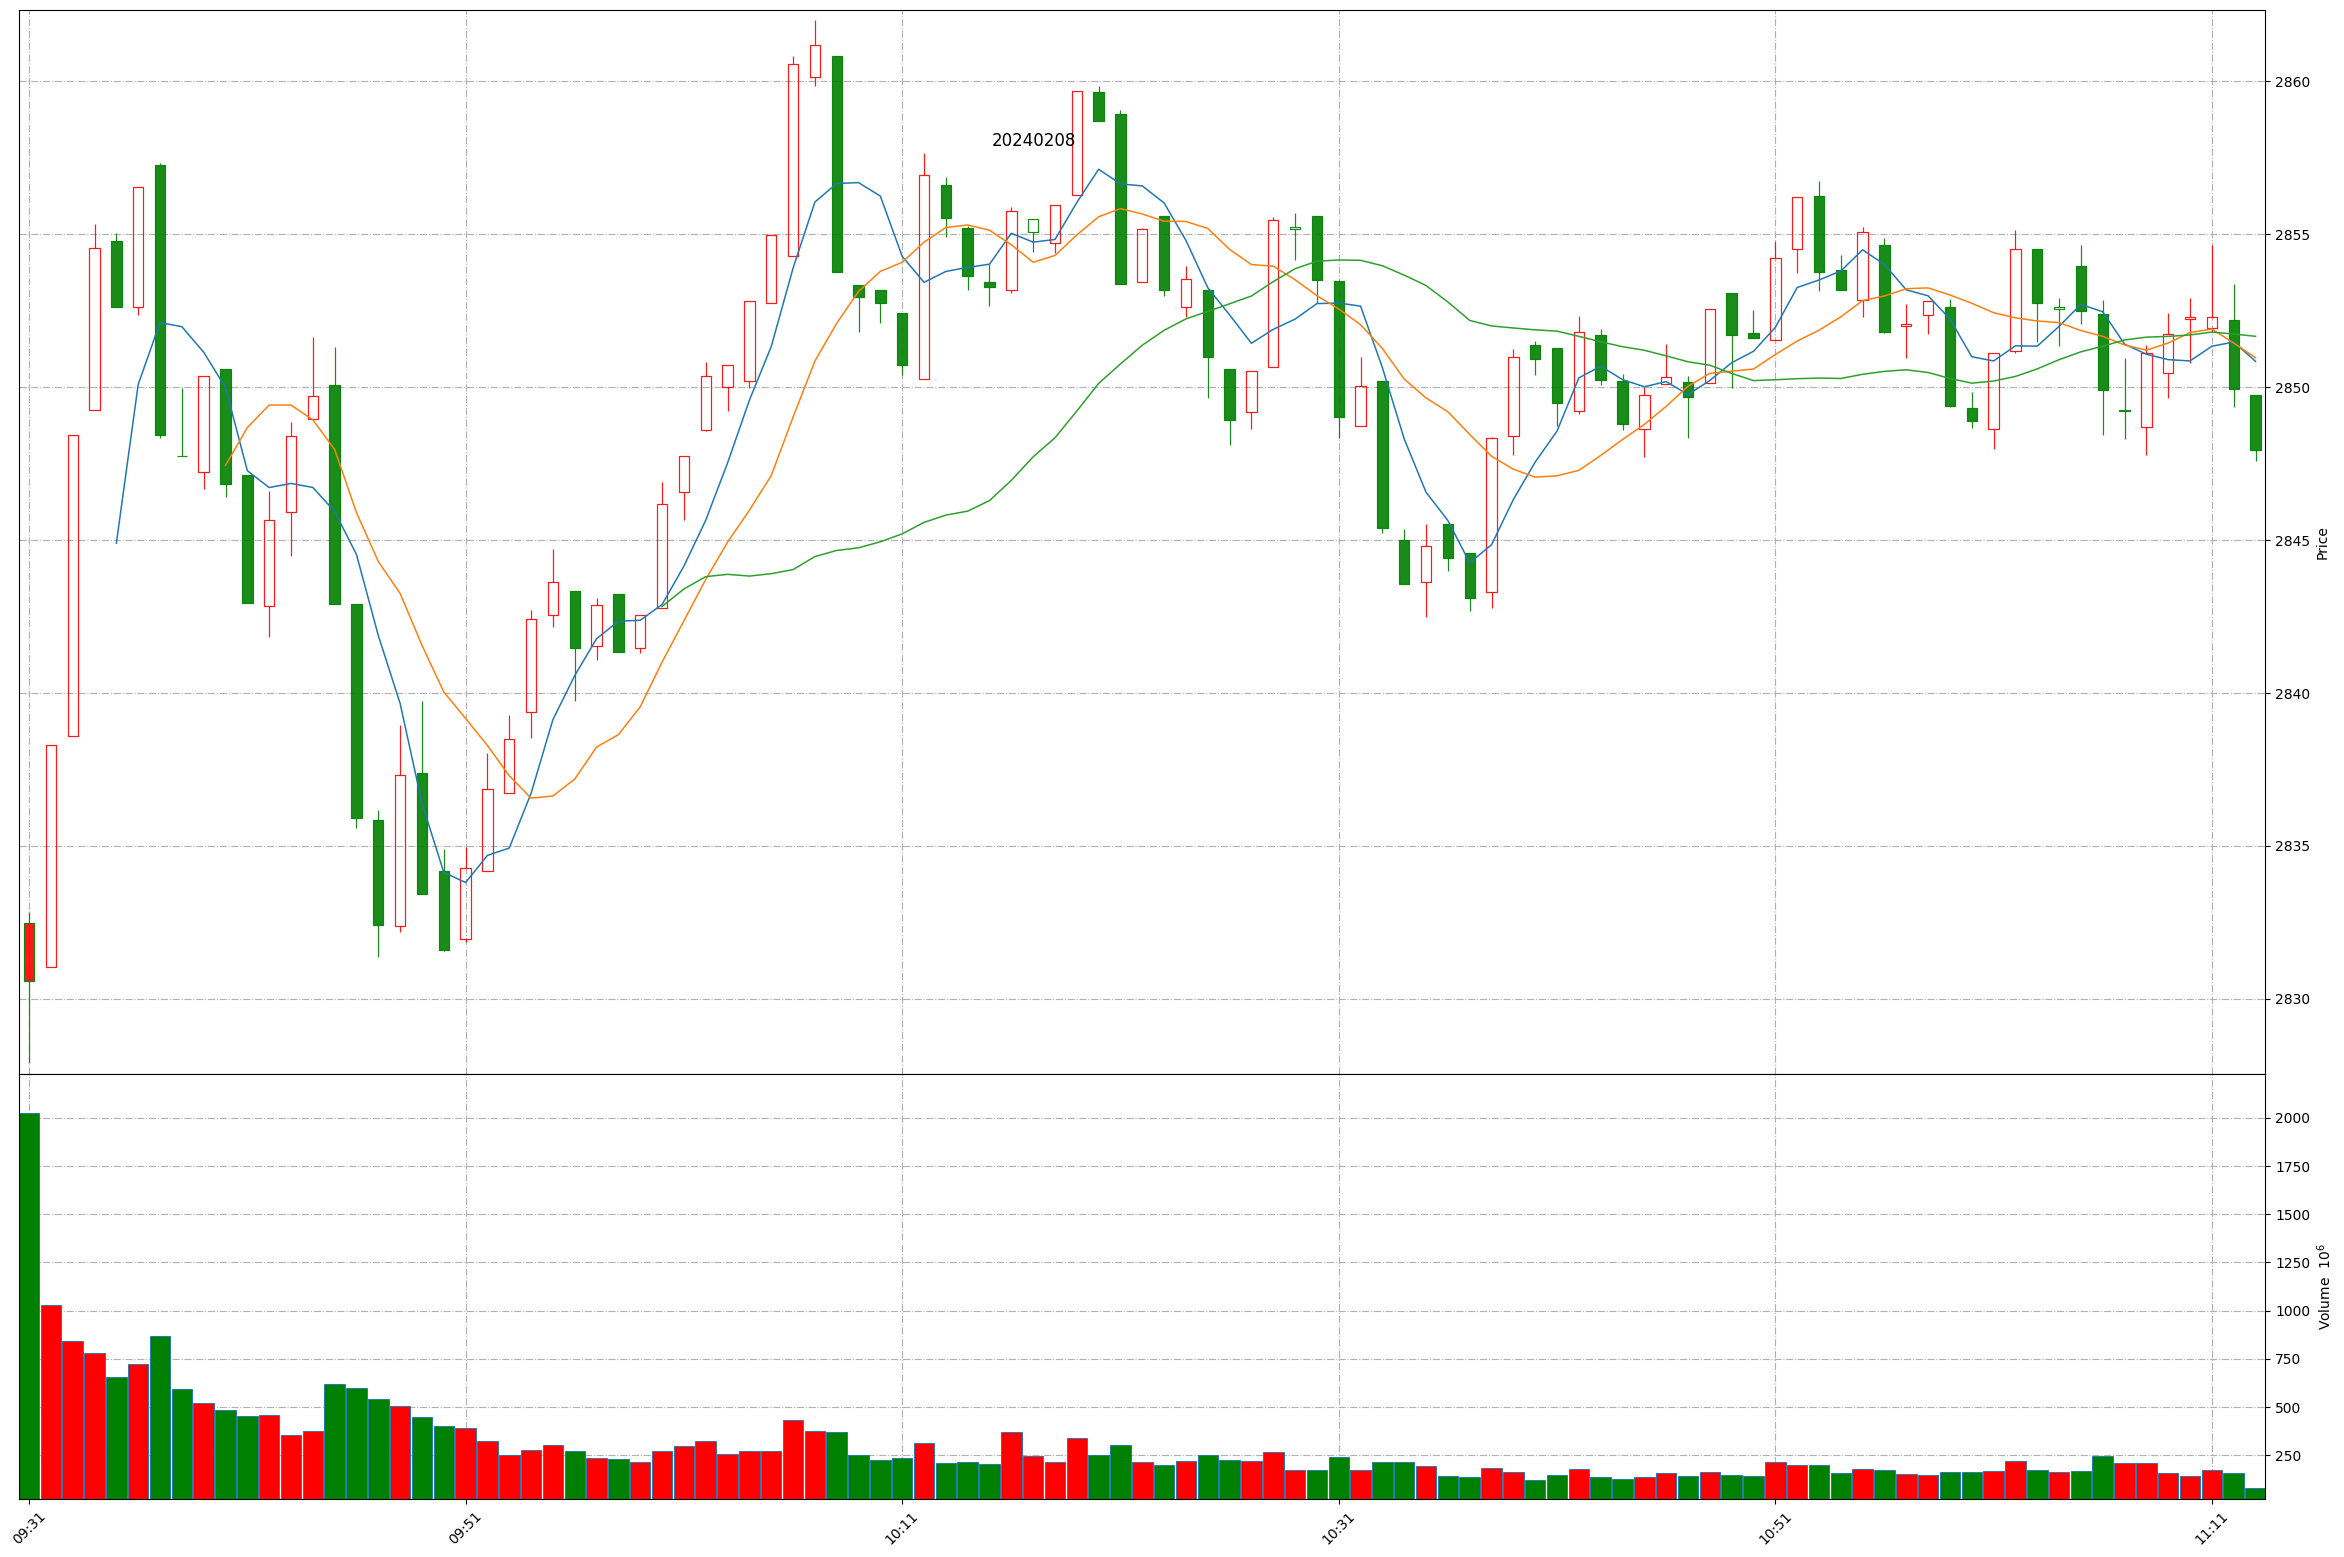
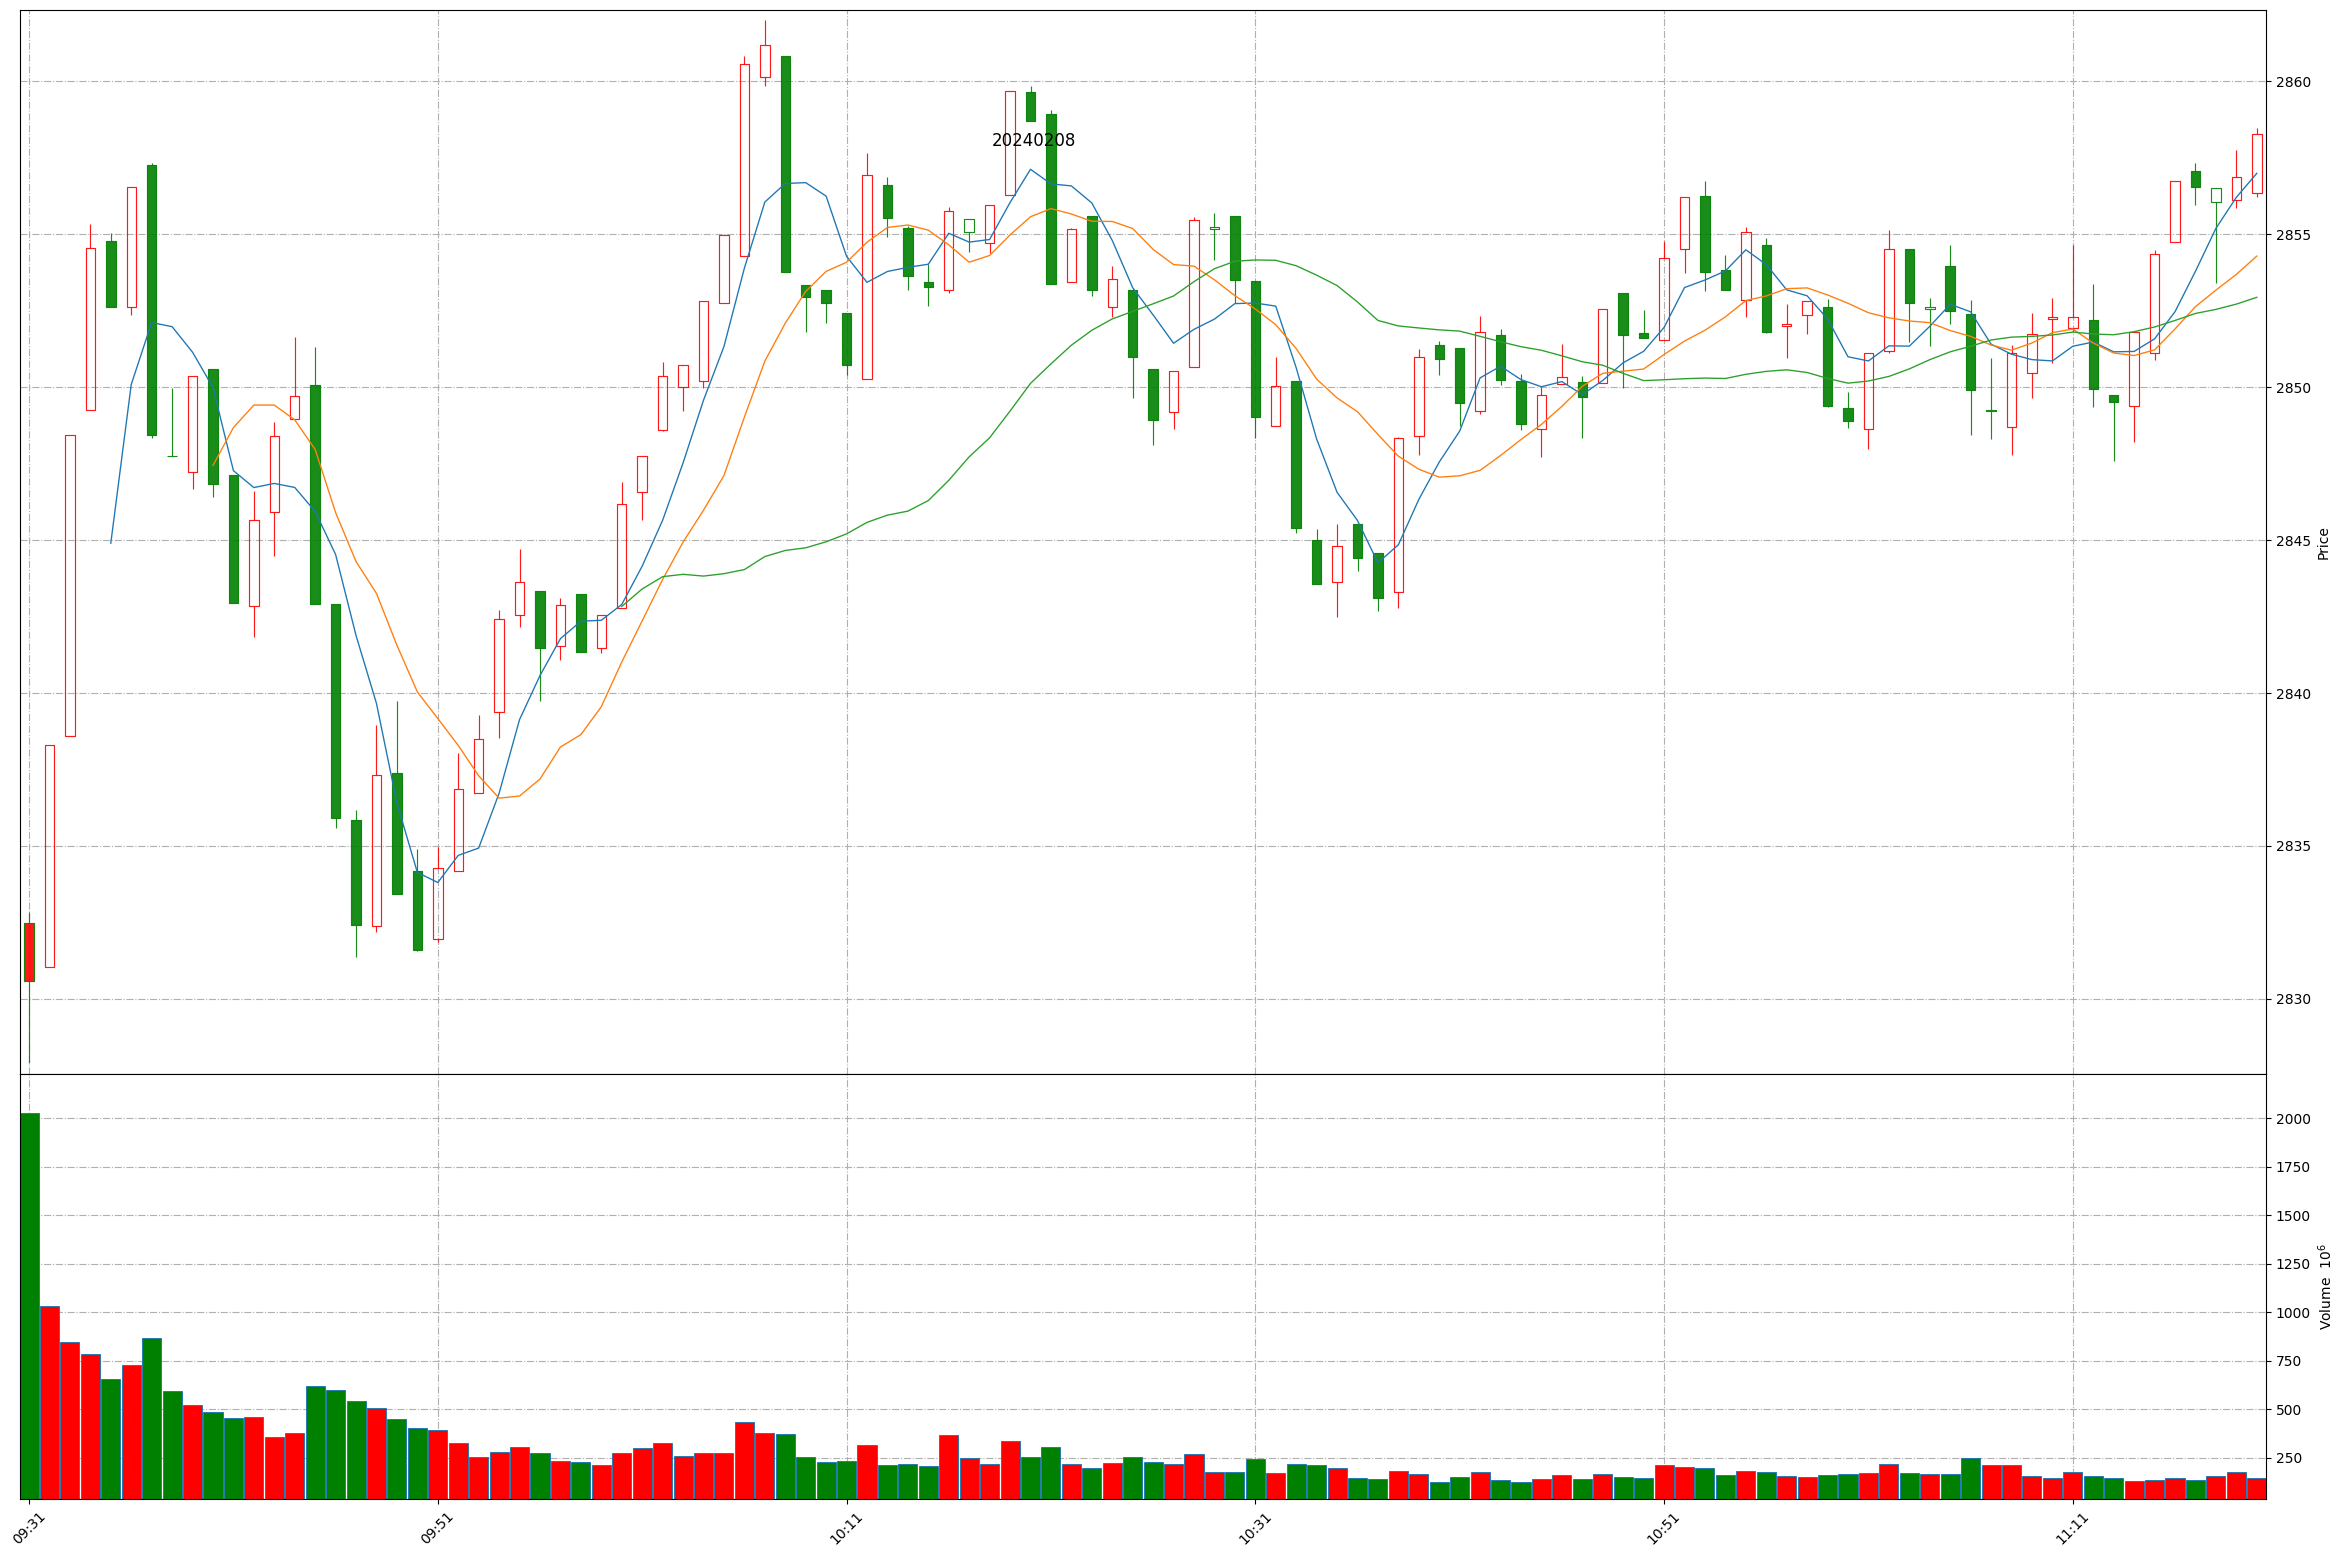
Github action update at 2024-02-08 11:20:22.

diff --git a/README.md b/README.md
@@ -1,11 +1,11 @@
 
 # Daily-A-share-market-quotes 每日 A 股指数（5min 更新）- 20240208
 
-### 上证指数 20240208 11:12
+### 上证指数 20240208 11:20
 ![](./fig/2024/2/20240208-sh000001.png)
 
-### 深证成指 20240208 11:12
+### 深证成指 20240208 11:20
 ![](./fig/2024/2/20240208-sz399001.png)
 
-### 北证50 20240208 11:12
+### 北证50 20240208 11:20
 ![](./fig/2024/2/20240208-bj899050.png)
